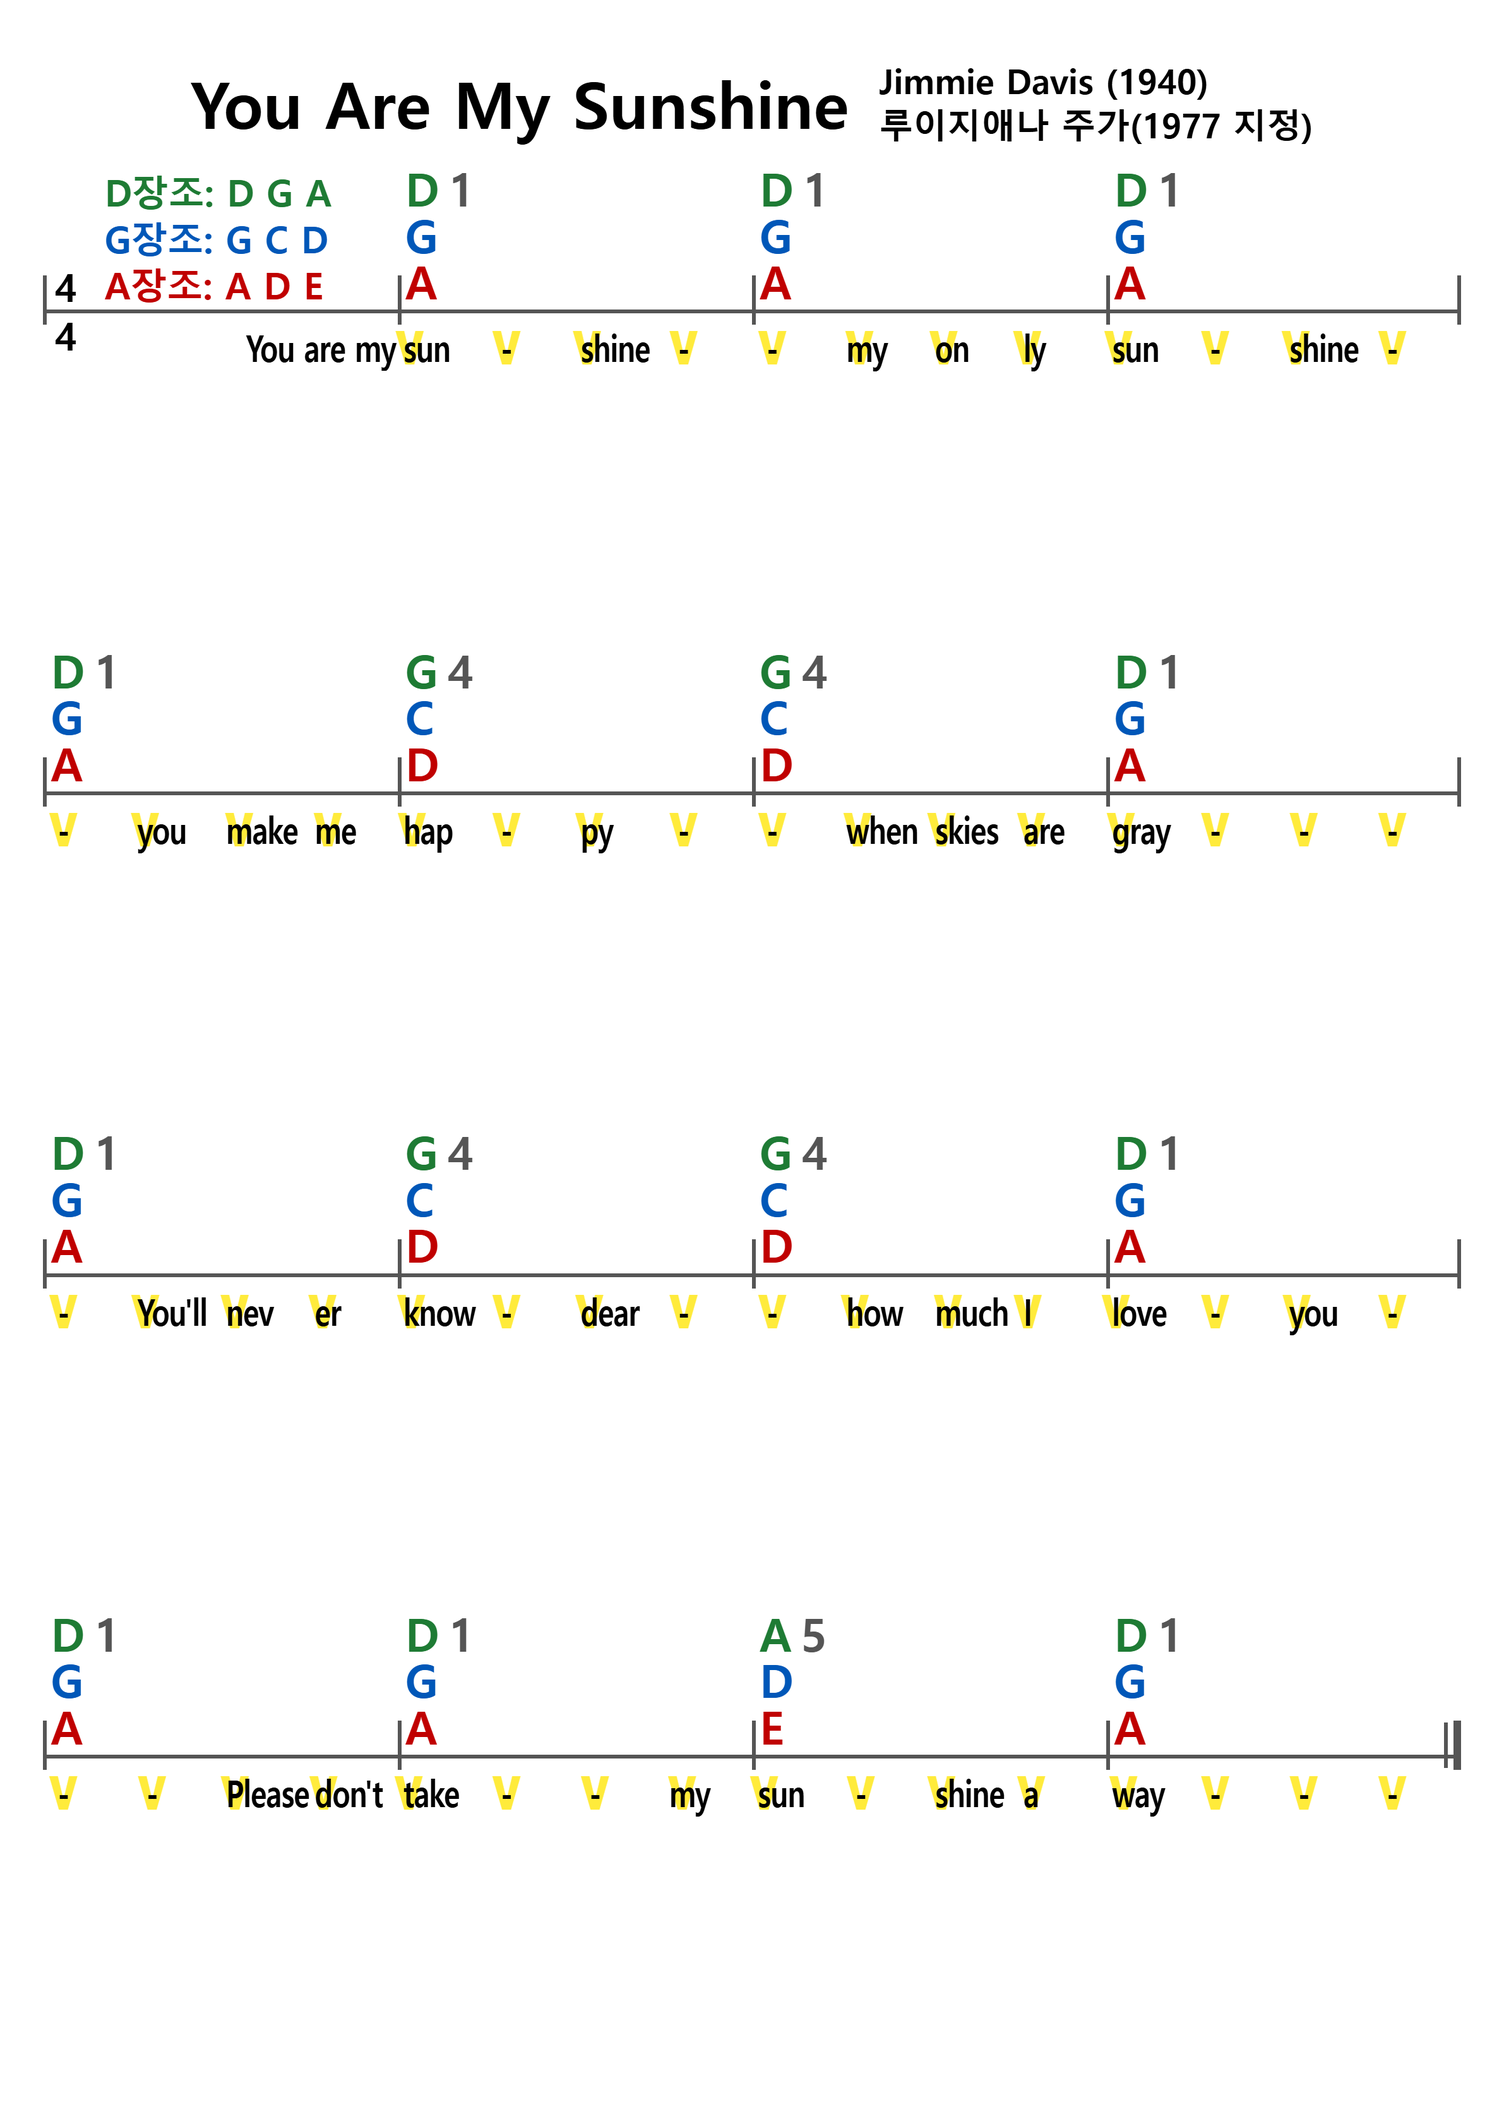
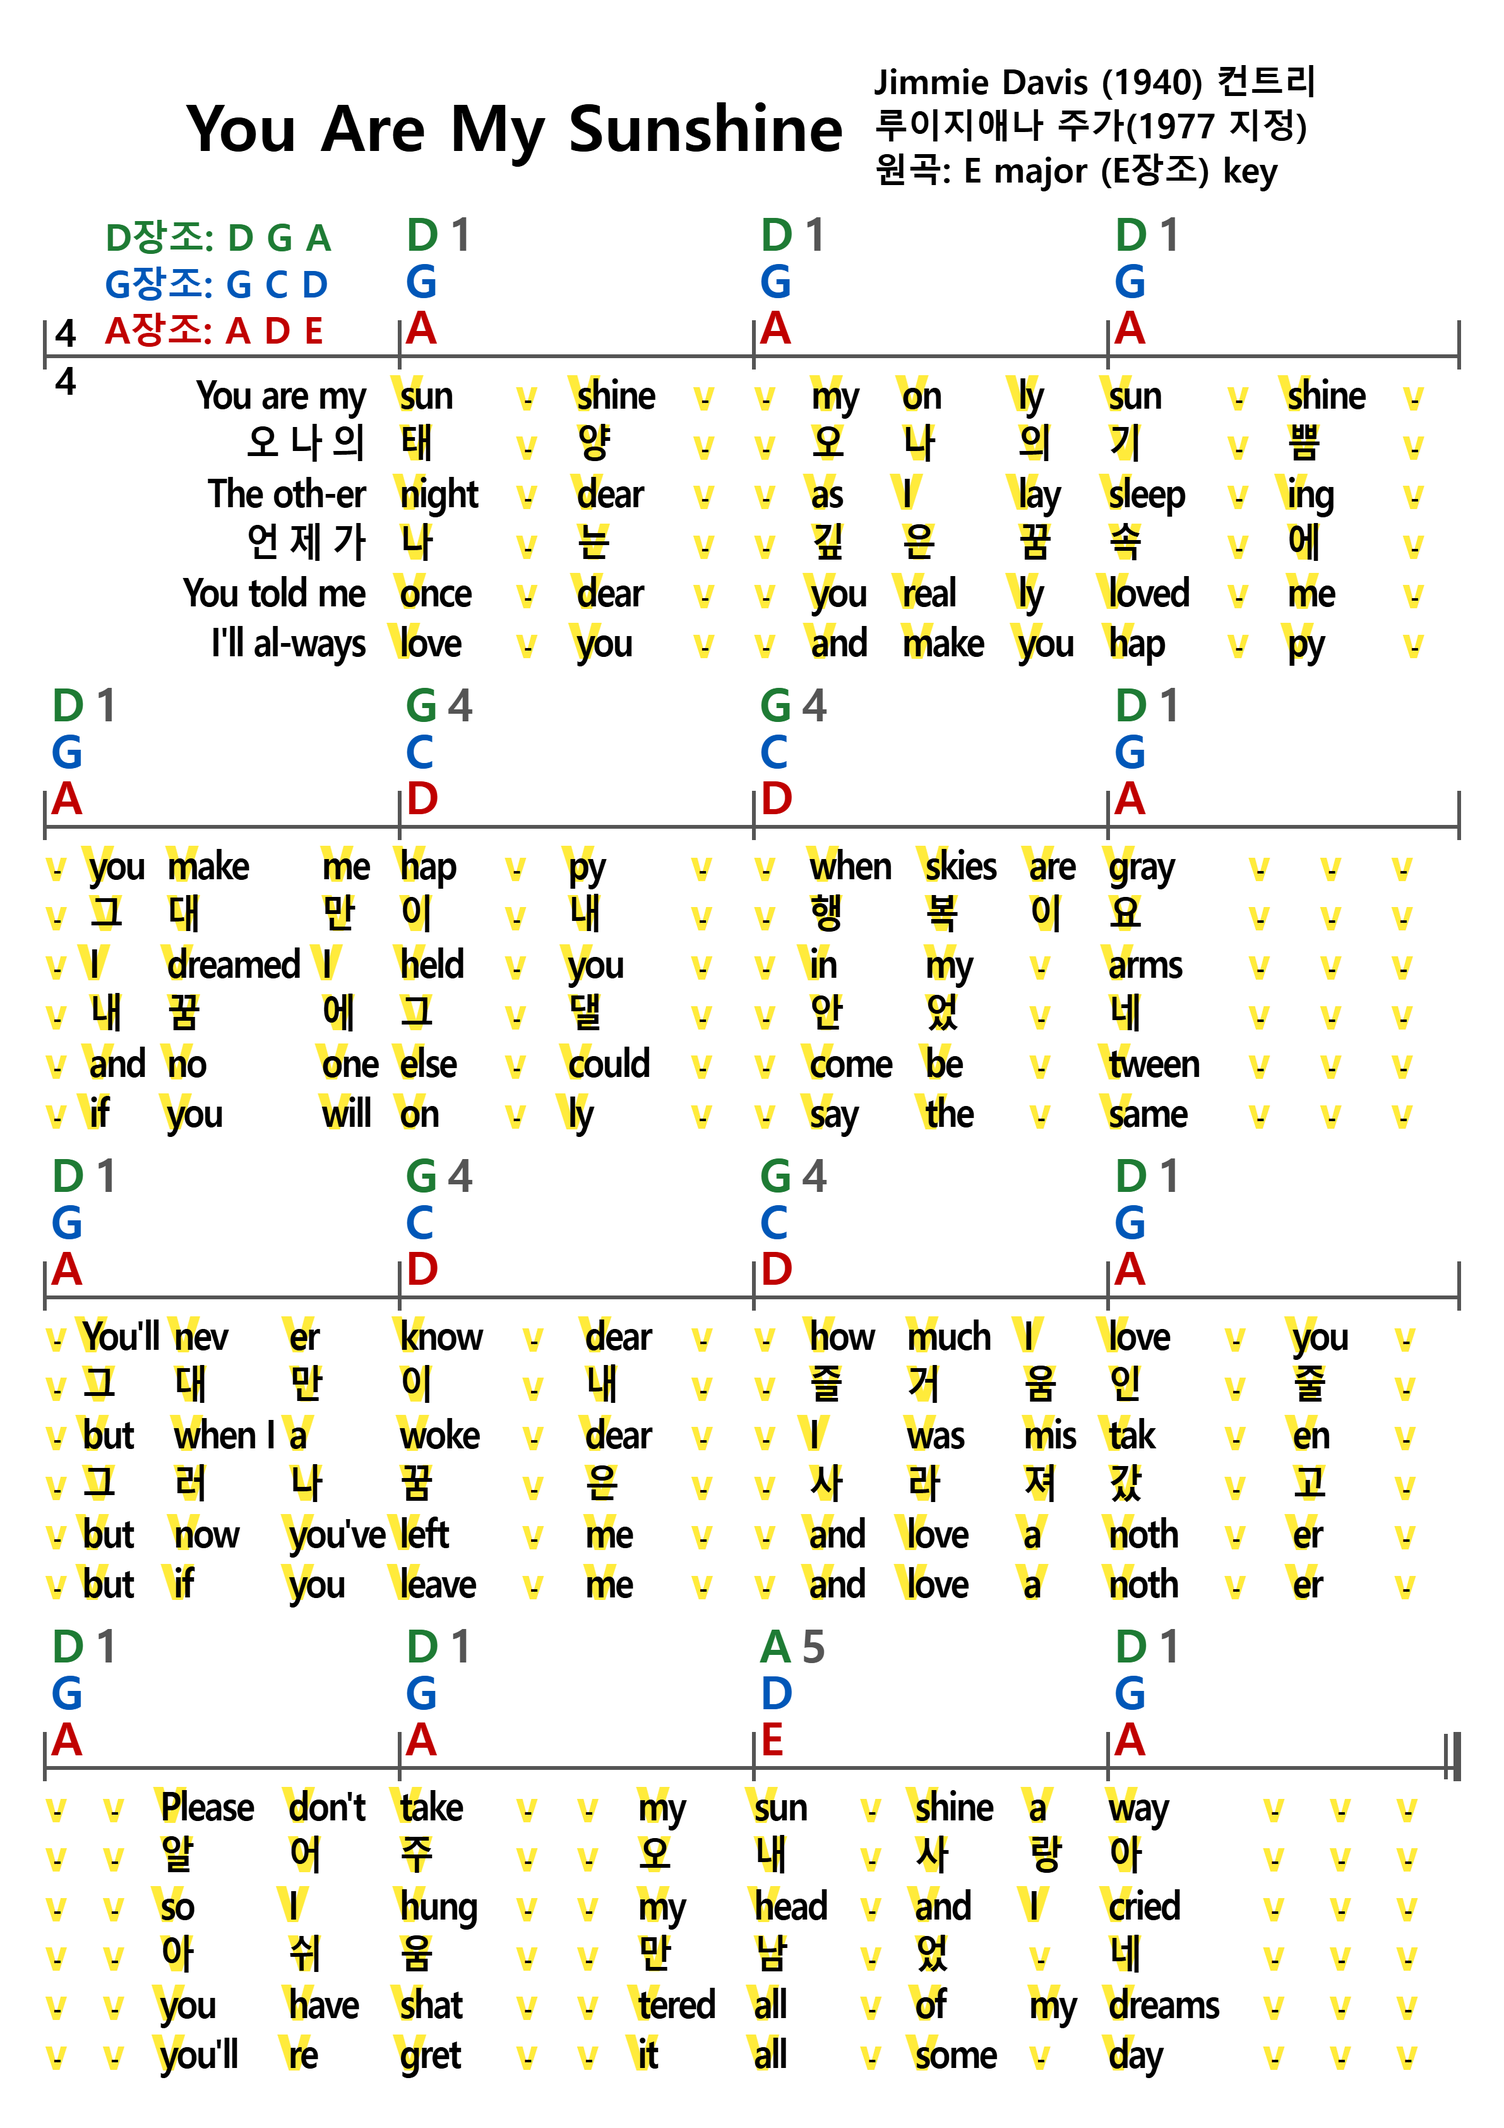
sheet

diff --git a/raw/145_youAreMySunshine_DGA장조.html b/raw/145_youAreMySunshine_DGA장조.html
@@ -32,13 +32,24 @@
   .m.last > .part:last-child .ch::after { right: 0; }
   .m.end > .part:last-child .ch::after { width: 4px; box-shadow: -6px 0 0 -1px var(--line); }
   /* 가사: 글자 간격을 살짝 좁히고 외곽선을 더해 더 크고 진하게 */
-  .ly { display: flex; gap: 4px; padding: 6px 1px 0 3px; font-size: var(--ly); font-weight: bold; line-height: 1.15; white-space: nowrap; letter-spacing: -0.02em; position: relative; z-index: 0; }
+  .ly { display: flex; gap: 4px; padding: 6px 1px 0 1px; font-size: var(--ly); font-weight: bold; line-height: 1.15; white-space: nowrap; letter-spacing: -0.05em; position: relative; z-index: 0; }
   /* 4/4박자의 각 박(1·2·3·4박) 첫 가사: 글자 뒤에 형광 노랑 V 표시 */
   .ly em { position: relative; font-style: normal; }
   .ly em::before { content: "V"; position: absolute; left: 50%; top: 50%; transform: translate(-50%, -50%); z-index: -1;
     font-family: Arial, sans-serif; font-size: 1.25em; font-weight: 900; color: #FFEB3B; letter-spacing: 0; }
   .ly em.beat { display: inline-block; min-width: 1em; text-align: center; }
+  /* 끄는 박 "-"는 작게 (글자가 있는 박에 폭을 더 주기 위해) */
+  .ly em.beat { font-size: 0.65em; }
+  /* 코드가 좁은 "-" 칸에 있어도 옆 칸으로 이어서 보이게 (코드는 칸 폭 계산에 넣지 않음) */
+  .ch i { white-space: nowrap; width: 0; }
+  /* 박 칸 폭 = 그 박에서 가장 긴 가사 폭 + 남는 폭을 고르게 나눔 (글자 사이 빈 간격을 줄임) */
+  .m > .part { flex: 1 0 auto !important; }
+  .ly { padding-right: 0.35em !important; }
   .ly .next { margin-left: auto; text-align: right; }
+  /* 못갖춘마디 가사는 다음 마디 첫 가사와 붙지 않게 살짝 앞(왼쪽)으로 */
+  .ly .next { margin-right: 0.6em; }
+  /* 후렴·1·2·3절 가사를 위아래로 붙여 쌓음 */
+  .ly + .ly { padding-top: 2px; }
   /* 가사를 폭은 그대로 두고 세로로만 늘림 (--sy 배) */
   .ly { height: calc(var(--ly) * 1.15 * var(--sy, 1)); }
   .ly span { display: inline-block; transform: scaleY(var(--sy, 1)); transform-origin: top; }
@@ -52,7 +63,7 @@
 </head>
 <body>
 <div class="page">
-  <div class="title"><h1>You Are My Sunshine</h1><div class="info"><div>Jimmie Davis (1940)</div><div>루이지애나 주가(1977 지정)</div></div></div>
+  <div class="title"><h1>You Are My Sunshine</h1><div class="info"><div>Jimmie Davis (1940) 컨트리</div><div>루이지애나 주가(1977 지정)</div><div>원곡: E major (E장조) key</div></div></div>
   <div id="song"></div>
 </div>
 <script>
@@ -69,6 +80,46 @@ const measures = [
   "[F]hap^-^py^-", "[F]-^when^skies^are", "[C]gray^-^-^-", "[C7]-^You'll^nev^er",
   "[F]know^-^dear^-", "[F]-^how^much^I", "[C]love^-^you^-", "[C]-^-^Please^don't",
   "[C]take^-^-^my", "[G7]sun^-^shine^a", "[C]way^-^-^-",
+];
+// 1·2·3절: 코드 진행이 후렴과 같으므로 코드는 한 번만 쓰고, 가사는 후렴 아래에 절 순서대로 한 줄씩 (rule.txt 7)
+// 각 절은 위 measures와 같은 마디·박 순서 (코드 없이 가사만)
+// 한글 가사(전석환 작사)는 145_youAreMySunshile_한글.png 기준. 영어 가사 바로 아래 줄에 음절을 맞춰 넣음
+const verses = [
+  [ // 한글 후렴
+    " / 오 나 의",
+    "태^-^양^-", "-^오^나^의", "기^-^쁨^-", "-^그^대^만",
+    "이^-^내^-", "-^행^복^이", "요^-^-^-", "-^그^대^만",
+    "이^-^내^-", "-^즐^거^움", "인^-^줄^-", "-^-^알^어",
+    "주^-^-^오", "내^-^사^랑", "아^-^-^-",
+  ],
+  [
+    " / The oth-er",
+    "night^-^dear^-", "-^as^I^lay", "sleep^-^ing^-", "-^I^dreamed^I",
+    "held^-^you^-", "-^in^my^-", "arms^-^-^-", "-^but^when I^a",
+    "woke^-^dear^-", "-^I^was^mis", "tak^-^en^-", "-^-^so^I",
+    "hung^-^-^my", "head^-^and^I", "cried^-^-^-",
+  ],
+  [ // 한글 1절
+    " / 언 제 가",
+    "나^-^는^-", "-^깊^은^꿈", "속^-^에^-", "-^내^꿈^에",
+    "그^-^댈^-", "-^안^었^-", "네^-^-^-", "-^그^러^나",
+    "꿈^-^은^-", "-^사^라^져", "갔^-^고^-", "-^-^아^쉬",
+    "움^-^-^만", "남^-^었^-", "네^-^-^-",
+  ],
+  [
+    " / You told me",
+    "once^-^dear^-", "-^you^real^ly", "loved^-^me^-", "-^and^no^one",
+    "else^-^could^-", "-^come^be^-", "tween^-^-^-", "-^but^now^you've",
+    "left^-^me^-", "-^and^love^a", "noth^-^er^-", "-^-^you^have",
+    "shat^-^-^tered", "all^-^of^my", "dreams^-^-^-",
+  ],
+  [
+    " / I'll al-ways",
+    "love^-^you^-", "-^and^make^you", "hap^-^py^-", "-^if^you^will",
+    "on^-^ly^-", "-^say^the^-", "same^-^-^-", "-^but^if^you",
+    "leave^-^me^-", "-^and^love^a", "noth^-^er^-", "-^-^you'll^re",
+    "gret^-^-^it", "all^-^some^-", "day^-^-^-",
+  ],
 ];
 const rows = [];
 for (let i = 0; i < measures.length; i += 4) rows.push(measures.slice(i, i + 4));
@@ -112,13 +163,17 @@ rows.forEach((measures, r) => {
         return esc(c);
       }).join("");
     };
+    const idx = r * 4 + i;
+    const verseParts = verses.map(v => v[idx].includes("^") ? v[idx].split("^") : [v[idx]]);
     parts.forEach((part, k) => {
       const [, chord = "", lyric] = part.match(/^(?:\[([^\]]+)\])?\s*(.*)$/);
-      const [here, next] = lyric.split(/\s*\/\s*/);
       const p = document.createElement("div");
       const first = r === 0 && i === 0;
       p.className = "part" + (first ? " has-time" : "");
-      p.style.flex = "1 1 0";
+      // 모든 줄이 "-"(끄는 박)뿐인 칸은 폭을 절반으로, 글자가 있는 칸은 그만큼 넓게
+      const allLines = [lyric, ...verseParts.map(vp => vp[k])];
+      const dashOnly = parts.length > 1 && allLines.every(s => /^-?$/.test(s.trim()));
+      p.style.flex = dashOnly ? "0.5 1 0" : "1 1 0";
       const time = first ? `<span class="time">4<br>4</span>` : "";
       const chordText = (steps, name, cls) => {
         if (chord === "@") return `<span style="font-size:0.8em">${name}</span>`; // 조 안내가 칸보다 길어 조금 작게 (rule.txt 6)
@@ -126,9 +181,14 @@ rows.forEach((measures, r) => {
         const c = transpose(chord, steps);
         return label(c) + (cls === DEGREE_KEY ? `<span class="deg">${degree(c)}</span>` : "");
       };
-      const body = chord === "@" ? esc(here) : markAccent(here);
+      // 후렴 + 1·2·3절 가사를 위아래로
+      const lines = [lyric, ...verseParts.map(vp => vp[k])].map(line => {
+        const [here, next] = line.split(/\s*\/\s*/);
+        const body = chord === "@" ? esc(here) : markAccent(here);
+        return `<div class="ly"><span>${body}</span>${next ? `<span class="next">${esc(next)}</span>` : ""}</div>`;
+      }).join("");
       p.innerHTML = `<div class="ch">${time}${KEYS.map(([cls, steps, name]) => `<i class="${cls}">${chordText(steps, name, cls)}</i>`).join("")}</div>`
-        + `<div class="ly"><span>${body}</span>${next ? `<span class="next">${esc(next)}</span>` : ""}</div>`;
+        + lines;
       m.appendChild(p);
     });
     row.appendChild(m);
@@ -142,10 +202,12 @@ const page = document.querySelector(".page");
 const root = document.documentElement.style;
 const lyEls = [...document.querySelectorAll(".ly")];
 const chEls = [...document.querySelectorAll(".ch")];
+const mEls = [...document.querySelectorAll(".m")];
 function fits(ly, ch) {
   root.setProperty("--ly", ly + "px");
   root.setProperty("--ch", ch.toFixed(1) + "px");
-  return chEls.every(c => c.scrollWidth <= c.clientWidth) && lyEls.every(l => l.scrollWidth <= l.clientWidth) && page.scrollHeight <= page.clientHeight;
+  // 마디 안의 박 칸들(가사 폭만큼)이 마디 폭을 넘지 않고, 코드도 마디 안에 들어가는지
+  return chEls.every(c => c.scrollWidth <= c.closest(".m").clientWidth) && mEls.every(m => m.scrollWidth <= m.clientWidth) && page.scrollHeight <= page.clientHeight;
 }
 // 1) 가사 폭이 마디에 들어가는 가장 큰 글자 크기
 let best = 9;
@@ -156,7 +218,7 @@ for (let ly = 26; ly >= 9; ly -= 0.25) {
 //    (칸이 좁아 가사 폭이 작으므로, 코드는 칸 폭이 허락하는 만큼 크게)
 //    코드는 늘어난 가사 높이와 비슷한 크기로(가사의 1.7배), 가사는 세로로 최대 2배까지 늘림
 const chSize = Math.min(24, best * 1.7);
-for (let sy = 1.3; sy >= 1; sy -= 0.05) { // 영어 가사는 너무 길쭉하지 않게 1.3배까지만
+for (let sy = 1.6; sy >= 1; sy -= 0.05) { // 줄 사이 빈 공간을 쓰도록 1.6배까지 (영어 가사가 너무 길쭉하지 않게)
   root.setProperty("--sy", sy.toFixed(2));
   if (fits(best, chSize)) break;
 }

diff --git a/조별코드표_행열변환.html b/조별코드표_행열변환.html
@@ -4,21 +4,24 @@
 <meta charset="utf-8">
 <title>조별 코드표 (행열 변환)</title>
 <style>
+  /* A4 세로 한 장에 맞춰 인쇄: 표가 페이지를 가득 채우고(세로로 길쭉하게) 글자를 칸 폭에 맞게 크게 */
+  @page { size: A4; margin: 0; }
+  * { -webkit-print-color-adjust: exact; print-color-adjust: exact; }
   html, body { margin: 0; background: #fff; color: #000; font-family: "Malgun Gothic", "맑은 고딕", sans-serif; }
-  .wrap { padding: 20px; display: inline-block; }
-  table { border-collapse: collapse; }
-  th, td { border: 1px solid #9aa3b5; text-align: center; vertical-align: middle; }
-  thead th { background: #e3f0dc; font-size: 15px; font-weight: bold; padding: 8px 6px; width: 118px; line-height: 1.4; }
-  thead th small { display: block; font-size: 12px; font-weight: normal; color: #333; }
-  thead th.corner { background: #fff; border-top-color: #fff; border-left-color: #fff; width: 90px; }
-  tbody th { background: #dfe5f5; font-size: 16px; padding: 8px 12px; line-height: 1.3; }
-  tbody th .sig { display: block; font-size: 14px; letter-spacing: 2px; }
-  td { font-size: 16px; height: 46px; }
+  .page { box-sizing: border-box; width: 210mm; height: 297mm; margin: 0 auto; padding: 8mm; overflow: hidden; }
+  table { border-collapse: collapse; table-layout: fixed; width: 100%; height: 100%; }
+  th, td { border: 1.5px solid #9aa3b5; text-align: center; vertical-align: middle; }
+  thead th { background: #e3f0dc; font-size: 27px; font-weight: bold; padding: 6px 2px; line-height: 1.2; height: 19%; }
+  thead th small { display: block; font-size: 18px; font-weight: normal; color: #333; line-height: 1.25; margin-top: 6px; white-space: nowrap; letter-spacing: -0.04em; }
+  thead th.corner { background: #fff; border-top-color: #fff; border-left-color: #fff; width: 12%; }
+  tbody th { background: #dfe5f5; font-size: 21px; padding: 4px 2px; line-height: 1.2; }
+  tbody th .sig { display: block; font-size: 18px; letter-spacing: 2px; }
+  td { font-size: 27px; }
   tr.strong td { font-weight: bold; }
 </style>
 </head>
 <body>
-<div class="wrap">
+<div class="page">
 <table>
   <thead id="head"></thead>
   <tbody id="body"></tbody>
@@ -47,8 +50,14 @@ const keys = [
 ];
 
 const esc = s => s.replace(/&/g, "&amp;").replace(/</g, "&lt;");
+// 칸이 좁으니 긴 이름은 두 줄로: 한글은 "화음" 앞에서, 영어는 띄어쓰기에서 줄바꿈
+const smallName = n => {
+  const [ko, en] = n.split("/");
+  const k = ko.length > 4 ? ko.replace(/화음$/, "<br>화음") : ko;
+  return k + "<br>" + esc(en).replace(/ /g, "<br>");
+};
 document.getElementById("head").innerHTML =
-  `<tr><th class="corner"></th>${degrees.map(([d, n]) => `<th>${d}<small>(${esc(n)})</small></th>`).join("")}</tr>`;
+  `<tr><th class="corner"></th>${degrees.map(([d, n]) => `<th>${d.replace(" ", "<br>")}<small>${smallName(n)}</small></th>`).join("")}</tr>`;
 document.getElementById("body").innerHTML = keys.map(([k, sig, chords, strong]) =>
   `<tr class="${strong ? "strong" : ""}"><th>${k}<span class="sig">${sig || "&nbsp;"}</span></th>${chords.map(c => `<td>${c}</td>`).join("")}</tr>`
 ).join("");

diff --git a/raw/145_조개껍질묶어_DGA장조.html b/raw/145_조개껍질묶어_DGA장조.html
@@ -57,7 +57,7 @@
 </head>
 <body>
 <div class="page">
-  <div class="title"><div class="legend"></div><h1>조개껍질 묶어</h1><div class="info"><div>임형주 (1972)</div><div>원제: 라라라, 원곡: D major (D장조) key</div></div></div>
+  <div class="title"><div class="legend"></div><h1>조개껍질 묶어</h1><div class="info"><div>임형주 (1972) 폴카(쿵짝쿵짝), 칼립소</div><div>원제: 라라라, 원곡: D major (D장조) key</div></div></div>
   <div id="song"></div>
 </div>
 <script>
@@ -70,20 +70,20 @@
 const TIME = "4/4";
 const measures = [
   // A
-  "[D]조|아|밥 ^ 개|침이|이 ^ 껍질|늦어|새까 ^ 묶어|져서|맣게", "[G]-|-|- ^ -|-|- ^ -|-|- ^ ",
-  "[A]그|모|타 ^ 녀의|두들|버려 ^ 목에|배고|못먹 ^ 걸고|파도|어도", "[D]-|-|- ^ -|-|- ^ -|-|- ^ ",
-  "[D]불|함|모 ^ 가에|께-|기가 ^ 마주|웃어|밤새 ^ 앉아|가며|물어", "[G]-|-|도 ^ -|-|- ^ -|-|- ^ ",
-  "[A]밤|식|모 ^ 새|사를|두들 ^ 속삭|기다|웃는 ^ 이네|리네|얼굴", "[D]-|-|- ^ -|-|- ^ -|-|- ^ ",
+  "[D]조|아|밥 ^ 개|침이|이 ^ 껍질|늦어|새까 ^ 묶어|져서|맣게", "[G]-|-|- ^ -|-|- ^ -|-|- ^ -|-|-",
+  "[A]그|모|타 ^ 녀의|두들|버려 ^ 목에|배고|못먹 ^ 걸고|파도|어도", "[D]-|-|- ^ -|-|- ^ -|-|- ^ -|-|-",
+  "[D]불|함|모 ^ 가에|께-|기가 ^ 마주|웃어|밤새 ^ 앉아|가며|물어", "[G]-|-|도 ^ -|-|- ^ -|-|- ^ -|-|-",
+  "[A]밤|식|모 ^ 새|사를|두들 ^ 속삭|기다|웃는 ^ 이네|리네|얼굴", "[D]-|-|- ^ -|-|- ^ -|-|- ^ -|-|-",
   // B
-  "[D]저|반|암 ^ 멀리|찬은|만- ^ 달그|한두|생각 ^ 림자|가지|해도", "[G]-|-|- ^ -|-|- ^ -|-|- ^ ",
-  "[A]시|집|집 ^ 원한|생각|에는 ^ 파도|나지|가야 ^ 소리|마는|할텐", "[D]-|-|데 ^ -|-|- ^ -|-|- ^ ",
-  "[D]여|시|바 ^ 름|큼|다 ^ 밤은|한김|고좋 ^ 길|치만|고그", "[G]어|있|녀 ^ -|-|가 ^ 만가|어주|있는 ^ 고|어도|데",
-  "[A]잠|내|어 ^ 은|게는|쩔 ^ 오질|진수|수가 ^ 않네|성찬|없네", "[D]-|-|- ^ -|-|- ^ -|-|- ^ ",
+  "[D]저|반|암 ^ 멀리|찬은|만- ^ 달그|한두|생각 ^ 림자|가지|해도", "[G]-|-|- ^ -|-|- ^ -|-|- ^ -|-|-",
+  "[A]시|집|집 ^ 원한|생각|에는 ^ 파도|나지|가야 ^ 소리|마는|할텐", "[D]-|-|데 ^ -|-|- ^ -|-|- ^ -|-|-",
+  "[D]여|시|바 ^ 름|큼|다 ^ 밤은|한김|가좋 ^ 깊|치만|고그", "[G]어|있|녀 ^ -|-|가 ^ 만가|어주|있는 ^ 고|어도|데",
+  "[A]잠|내|어 ^ 은|게는|쩔 ^ 오질|진수|수가 ^ 않네|성찬|없네", "[D]-|-|- ^ -|-|- ^ -|-|- ^ -|-|-",
   // C
-  "[D]랄 ^ 랄 ^ 랄라 ^ 라라", "[G]- ^ - ^ - ^ ",
-  "[A]랄 ^ 랄라 ^ 라랄 ^ 라라", "[D]- ^ - ^ - ^ ",
-  "[D]랄 ^ 랄 ^ 라라 ^ 라", "[G]랄 ^ 랄 ^ 라라 ^ -",
-  "[A]랄 ^ 랄 ^ 라라 ^ 랄라", "[D]- ^ - ^ - ^ ",
+  "[D]랄 ^ 랄 ^ 라랄 ^ 랄라", "[G]- ^ - ^ - ^ -",
+  "[A]랄 ^ 라랄 ^ 라랄 ^ 랄라", "[D]- ^ - ^ - ^ -",
+  "[D]랄 ^ 랄 ^ 라랄 ^ 라", "[G]랄 ^ 랄 ^ 라라 ^ -",
+  "[A]랄 ^ 랄 ^ 라랄 ^ 랄라", "[D]- ^ - ^ - ^ -",
 ];
 const rows = [];
 for (let i = 0; i < measures.length; i += 4) rows.push(measures.slice(i, i + 4));
